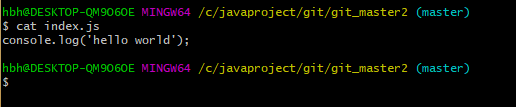
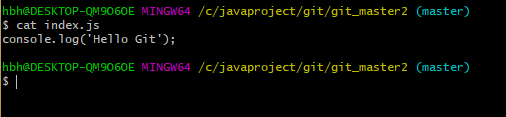
update index.js

Changed region(s): [[0.0, 0.028, 0.9486, 0.4486], [0.0, 0.5327, 0.9486, 0.8131]]

diff --git a/index.js b/index.js
@@ -1,0 +1,1 @@
+console.log('Hello Git');

diff --git a/README.md b/README.md
@@ -98,7 +98,7 @@
 
 <br>
 
-##  📌 깃 log
+##  📌 깃 로그 보기
 `git log`
 
 <br>
@@ -116,7 +116,7 @@
 
 <br>
 
-##  📌 깃 log
+##  📌 깃 보기
 `git show {커밋해시}`
 
 <br>
@@ -127,7 +127,7 @@
 
 <br>
 
-##  📌  vi
+##  📌  파일 편집하기
 `vi {파일명}` : 파일 에디터 실행
 
 <br>
@@ -145,7 +145,7 @@
 
 <br>
 
-##  📌  cat
+##  📌 파일 내용 보기
 `cat {파일명}` : 파일 내용 보기
 
 <br>
@@ -155,5 +155,12 @@
 
 <br>
 
-##  📌  diff
+##  📌  이전 커밋과 다른 점 비교하기
+`git diff`
+
+<br>
+
+![img](./img/006.png)
+
+<br>
  
